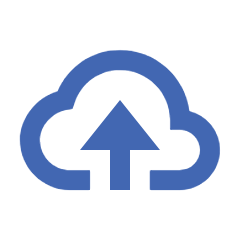
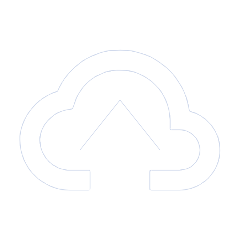
.

Changed region(s): [[0.0583, 0.2042, 0.9333, 0.8167], [0.3208, 0.4083, 0.6708, 0.8167]]

diff --git a/API/Website/client/src/Components/Clock/Clock.jsx b/API/Website/client/src/Components/Clock/Clock.jsx
@@ -6,6 +6,7 @@ import { LocalizationProvider } from '@mui/x-date-pickers/LocalizationProvider';
 import { TimeClock } from '@mui/x-date-pickers/TimeClock';
 import { useEffect, useState } from 'react';
 import { useData } from '../DataContext/DataContext';
+import { green } from '@mui/material/colors';
 
 const Clock = () => {
     const { data, loading, error, fetchData } = useData();
@@ -42,18 +43,30 @@ const Clock = () => {
     return (
         <LocalizationProvider dateAdapter={AdapterDayjs}>
             <DemoContainer components={['TimeClock']} sx={{ overflow: 'hidden', display: 'flex', justifyContent: 'center', alignItems: 'center' }}>
-                <DemoItem label="" sx={{ overflow: 'hidden', display: 'flex', justifyContent: 'center', alignItems: 'center' }}>
+                <DemoItem label="" sx={{ overflow: 'hidden', display: 'flex', justifyContent: 'center', alignItems: 'center'}}>
                     <TimeClock 
                         value={timeValue} 
                         readOnly
                         sx={{
                             transform: 'scale(0.85)', // Verkleinert die gesamte Uhr
                             transformOrigin: 'center', // Zentriert die Verkleinerung
+                            '& .MuiTimeClock-arrowSwitcher': {
+                                color: '#4caf50', // Ändert die Farbe der Zeiger
+                            },
+                            '& .MuiClockNumber-root': {
+                                color: '#4caf50', // Ändert die Farbe der Zahlen
+                            },
+                            '& .MuiClock-pin': {
+                                backgroundColor: green[500], // Ändert die Farbe des Pins in der Mitte
+                            },
+                            '& .MuiClock-amButton, & .MuiClock-pmButton': {
+                                color: '#4caf50', // Ändert die Farbe der AM/PM Buttons
+                            },
                         }}
                     />
                 </DemoItem>
             </DemoContainer>
-            {strongestHourValue && <p className="text-white mt-4">Umsatz: {strongestHourValue}</p>}
+            {strongestHourValue && <p className="text-white mt-4 text-lg">Umsatz: {strongestHourValue}€</p>}
         </LocalizationProvider>
     );
 }

diff --git a/API/Website/client/src/Components/Upload/DropComponents.jsx b/API/Website/client/src/Components/Upload/DropComponents.jsx
@@ -62,8 +62,8 @@ const DropFileInput = props => {
                 console.log('Upload erfolgreich:', response);
                 fileRemove(file);
             }).catch(error => {
-                console.error('Upload fehlgeschlagen:', error);
-                setUploadError("Upload fehlgeschlagen: " + error.message);
+                console.error('Das hat nicht geklappt:', error);
+                setUploadError("Das hat nicht geklappt: " + error.message);
             });
         });
 
@@ -77,14 +77,14 @@ const DropFileInput = props => {
         <>
             <div
                 ref={wrapperRef}
-                className="drop-file-input bg-white/90"
+                className="drop-file-input"
                 onDragEnter={onDragEnter}
                 onDragLeave={onDragLeave}
                 onDrop={onDrop}
             >
                 <div className="drop-file-input__label">
-                    <img className='drop-file-img bg-blend-multiply' src={uploadImg} alt="" />
-                    <p className='text-black '>Drag & Drop hier deine Dateien</p>
+                    <img className='drop-file-img' src={uploadImg} alt="" />
+                    <p className='text-black '>Drag & Drop</p>
                 </div>
                 <input type="file" value="" onChange={onFileDrop}/>
             </div>

diff --git a/API/Website/client/src/Components/Upload/DropComponents.scss b/API/Website/client/src/Components/Upload/DropComponents.scss
@@ -8,7 +8,7 @@
     display: flex;
     align-items: center;
     justify-content: center;
-    // background-color: var(--greyText);
+    background-color: var(--logoColor);
     transition: all 0.5s ease-out;
 }
 
@@ -42,7 +42,7 @@
 }
 
 .drop-file-input:hover::before {
-    content: "Leave for Upload";
+    content: "Zum Hochladen ablegen";
     display: block;
     font-size: 17px;
     font-weight: 500;
@@ -52,8 +52,8 @@
 
 .drop-file-input__label {
     text-align: center;
-    color: var(--primaryColor);
-    font-weight: 600;
+    color: var(--logoColor);
+    font-weight: 700;
     padding: 10px;
     display: flex;
     flex-direction: column; /* In Spalte anordnen */
@@ -85,7 +85,7 @@
 }
 
 .drop-file-preview__title:hover {
-    color: var(--primaryColor);
+    color: var(--logoColor);
     background: rgba(0, 0, 0, 0.5);
 }
 
@@ -93,7 +93,7 @@
     position: relative;
     display: flex;
     margin-bottom: 10px;
-    background-color: var(--primaryColor);
+    background-color: var(--logoColor);
     padding: 15px;
     border-radius: 20px;
 }
@@ -110,7 +110,7 @@
 }
 
 .drop-file-preview__item__del {
-    background-color: var(--primaryColor);
+    background-color: var(--logoColor);
     width: 40px;
     height: 40px;
     border-radius: 50%;

diff --git a/API/Website/client/src/Components/Strategien/StrategienComponent.jsx b/API/Website/client/src/Components/Strategien/StrategienComponent.jsx
@@ -119,8 +119,8 @@ const StrategienComponent = () => {
         <div className="strategie-body bg-[#252525]">
             <div className="slider-container">
             <div className='circle w-[520px] h-[400px] bg-[#265ffd] rounded-[100%] absolute z-9 top-[110%] left-[50%] translate-x-[-200%] translate-y-[20%] blur-[1000px]'></div>
-            <h1 className="heading">Mit unseren <span className="highlight">Strategien</span> sind Sie  <br />ganz vorne dabei</h1>
-                <div className='flex items-center justify-center bg-[#222222] rounded-xl'>
+            <h1 className="heading">Mit unseren <span className="highlight">Strategien</span> sind Sie  <br />ganz vorne dabei!</h1>
+                <div className='flex items-center justify-center bg-[#222222] rounded-2xl'>
                     <div className='grid grid-cols-1 w-full md:grid-cols-2 lg:grid-cols-3 gap-5 self-start my-40 ml-7 mr-7'>
                         {strategien.map((strategie, index) => (
                             <div key={strategie.id || index} className='group relative cursor-pointer items-center justify-center overflow-hidden transition-shadow hover:shadow-xl hover:shadow-black/30 rounded-xl'>

diff --git a/API/Website/client/src/Components/Upload/DropComponents.css b/API/Website/client/src/Components/Upload/DropComponents.css
@@ -8,6 +8,7 @@
   display: flex;
   align-items: center;
   justify-content: center;
+  background-color: var(--logoColor);
   transition: all 0.5s ease-out;
 }
 
@@ -38,7 +39,7 @@
 }
 
 .drop-file-input:hover::before {
-  content: "Leave for Upload";
+  content: "Zum Hochladen ablegen";
   display: block;
   font-size: 17px;
   font-weight: 500;
@@ -47,8 +48,8 @@
 
 .drop-file-input__label {
   text-align: center;
-  color: var(--primaryColor);
-  font-weight: 600;
+  color: var(--logoColor);
+  font-weight: 700;
   padding: 10px;
   display: flex;
   flex-direction: column; /* In Spalte anordnen */
@@ -80,7 +81,7 @@
 }
 
 .drop-file-preview__title:hover {
-  color: var(--primaryColor);
+  color: var(--logoColor);
   background: rgba(0, 0, 0, 0.5);
 }
 
@@ -88,7 +89,7 @@
   position: relative;
   display: flex;
   margin-bottom: 10px;
-  background-color: var(--primaryColor);
+  background-color: var(--logoColor);
   padding: 15px;
   border-radius: 20px;
 }
@@ -105,7 +106,7 @@
 }
 
 .drop-file-preview__item__del {
-  background-color: var(--primaryColor);
+  background-color: var(--logoColor);
   width: 40px;
   height: 40px;
   border-radius: 50%;

diff --git a/API/Website/client/src/Components/Cards/Cards.jsx b/API/Website/client/src/Components/Cards/Cards.jsx
@@ -13,14 +13,14 @@ const Cards = () => {
   return (
     <div className='cards bg-[#252525]'>
       
-      <h1 className='card-slogan'>TBD</h1>
+      <h1 className='card-slogan'></h1>
       <div className='cards__container'>
       <div className='circle w-[520px] h-[400px] bg-[#265ffd] rounded-[100%] absolute z-9 top-[110%] left-[50%] translate-x-[-200%] translate-y-[20%] blur-[1000px]'></div>
         <div className='cards__wrapper'>
           <ul className='cards__items'>
             <CardItem
               src={bild}
-              text='Testen Sie wie unsere Software in der Konkurrenz performt'
+              text='Testen Sie wie Ihr Unternehmen mit unserer Software performt'
               label='Aktuelles'
               path='/analyse'
             />
@@ -34,7 +34,7 @@ const Cards = () => {
           <ul className='cards__items'>
             <CardItem
               src={upload}
-              text='Gemütlich Ihre per Drag & Drop .csv Datei zur Analyse hochladen'
+              text='Gemütlich Ihre CSV-Datei per Drag & Drop zur Analyse hochladen'
               label='Easy Upload'
               path='/analyse'
             />

diff --git a/API/Website/client/src/Components/Charts/aprioriChart.jsx b/API/Website/client/src/Components/Charts/aprioriChart.jsx
@@ -57,6 +57,13 @@ const AprioriChart = () => {
         return label.length > 20 ? label.slice(0, 20) + '...' : label;
     };
 
+    const CustomDot = (props) => {
+        const { cx, cy } = props;
+        return (
+            <circle cx={cx} cy={cy} r={6} fill="#22C55E" />
+        );
+    };
+
     return (
         <ResponsiveContainer width="100%" height="100%">
             <ScatterChart margin={{ top: 20, right: 20, bottom: 80, left: 100 }}>
@@ -82,9 +89,9 @@ const AprioriChart = () => {
                     domain={[0, consequences.length - 1]}
                 />
                 <Tooltip
-                    content={<CustomTooltip premises={premises} consequences={consequences} />}
+                    content={<CustomTooltip premises={premises} consequences={consequences} /> } cursor={{ stroke: '#22C55E', strokeDasharray: '0 0' }}
                 />
-                <Scatter name="Apriori Analysis" data={transformedData} fill="#8884d8" />
+                <Scatter name="Apriori Analysis" data={transformedData} fill="#22C55E" shape={<CustomDot />} />
             </ScatterChart>
         </ResponsiveContainer>
     );

diff --git a/API/Website/client/src/Components/Charts/Charts.jsx b/API/Website/client/src/Components/Charts/Charts.jsx
@@ -15,7 +15,7 @@ const Charts = () => {
   return (
     <div className='charts bg-[#252525]'>
       <div className='circle w-[520px] h-[400px] bg-[#265ffd] rounded-[100%] absolute z-9 top-[110%] left-[50%] translate-x-[-200%] translate-y-[20%] blur-[1000px]'></div>
-      <h1 className='partingline'>Lorem Ipsum</h1>
+      <h1 className='partingline font-medium'>Ihre Statistikauswertung</h1>
       {loading && <RingLoader speedMultiplier={1} color="var(--logoColor)" className='mr-auto ml-auto' />}
 
       <div className='flex min-h-screen flex-col items-center justify-center px-4 md:px-6 xl:px-8 py-33'>
@@ -35,7 +35,7 @@ const Charts = () => {
           <GridItem2 title='Umsatzstärkste Uhrzeit'>
             <Clock />
           </GridItem2>
-          <GridItem2 title='Stärkster Einkaufstag/Einkaufsuhrzeit, nach Kundenhäufigkeit'>
+          <GridItem2 title={<div style={{ textAlign: 'center', fontSize: '1.5rem'}}><span>Stärkster Einkaufstag/Einkaufsuhrzeit,</span><br /><span>nach Kundenhäufigkeit</span></div>}>
             <BestTimeValue />
           </GridItem2>
         </div>

diff --git a/API/Website/client/src/Components/Register/Register.jsx b/API/Website/client/src/Components/Register/Register.jsx
@@ -41,12 +41,11 @@ const Register = () => {
                 <video src={video} autoPlay muted loop></video>
 
                 <div className="textDiv">
-                    <h2 className="title">Analysiere Daten einfach und schnell</h2>
-                    <p>Hier kann ein Text stehen</p>
+                    <h2 className="title">Analysiere Daten einfach <br/>und schnell</h2>
                 </div>
 
                 <div className="footerDiv flex">
-                   <span className="text">du hast bereits einen Account?</span> 
+                   <span className="text">Du hast bereits einen Account?</span> 
                    <Link to={'/'}>
                    <button className="btn">Zum Login</button>
                    </Link>
@@ -56,7 +55,6 @@ const Register = () => {
             <div className="formDiv flex">
                 <div className="headerDiv">
                     <img src={logo} alt="Logo" />
-                    <h3>Wir freuen uns auf dich!</h3>
                 </div>
 
                 <form onSubmit={handleRegister} className="form grid">

diff --git a/API/Website/client/src/Components/Upload/Upload.jsx b/API/Website/client/src/Components/Upload/Upload.jsx
@@ -14,8 +14,8 @@ const Upload = () => {
     return (
         <div className="upload-main-container bg-[#252525]">
             <div className="upload-container bg-slate-900/50">
-                <h2 className="upload-header text-white">
-                    Lorem ipsum dolor sit amet
+                <h2 className="upload-header text-white font-medium">
+                    Ziehen Sie Ihre Dateien in das Feld
                 </h2>
                 <DropComponents
                     onFileChange={(files) => onFileChange(files)}

diff --git a/API/Website/client/src/Components/Login/Login.jsx b/API/Website/client/src/Components/Login/Login.jsx
@@ -36,8 +36,7 @@ const Login = ({ setIsLoggedIn }) => {
                 <video src={video} autoPlay muted loop></video>
 
                 <div className="textDiv">
-                    <h2 className="title">Analysiere Daten einfach und schnell</h2>
-                    <p>Hier kann ein Text stehen</p>
+                    <h2 className="title">Analysiere Daten einfach <br />und schnell</h2>
                 </div>
 
                 <div className="footerDiv flex">

diff --git a/API/Website/client/src/Components/Strategien/StrategienComponent.scss b/API/Website/client/src/Components/Strategien/StrategienComponent.scss
@@ -20,7 +20,7 @@
   
  
 .heading {
-  font-size: 3.5rem;
+  font-size: 3rem;
   font-weight: 700;
   text-align: center;
   color: #fff;
@@ -29,7 +29,7 @@
 
 .heading .highlight {
   color: #265ffd; /* Blaue Farbe für Hervorhebung */
-  font-size: 3rem; /* Größere Schriftgröße für Hervorhebung */
+  font-size: 3.5rem; /* Größere Schriftgröße für Hervorhebung */
   font-weight: 900; /* Dickere Schriftart für Hervorhebung */
 }
 
